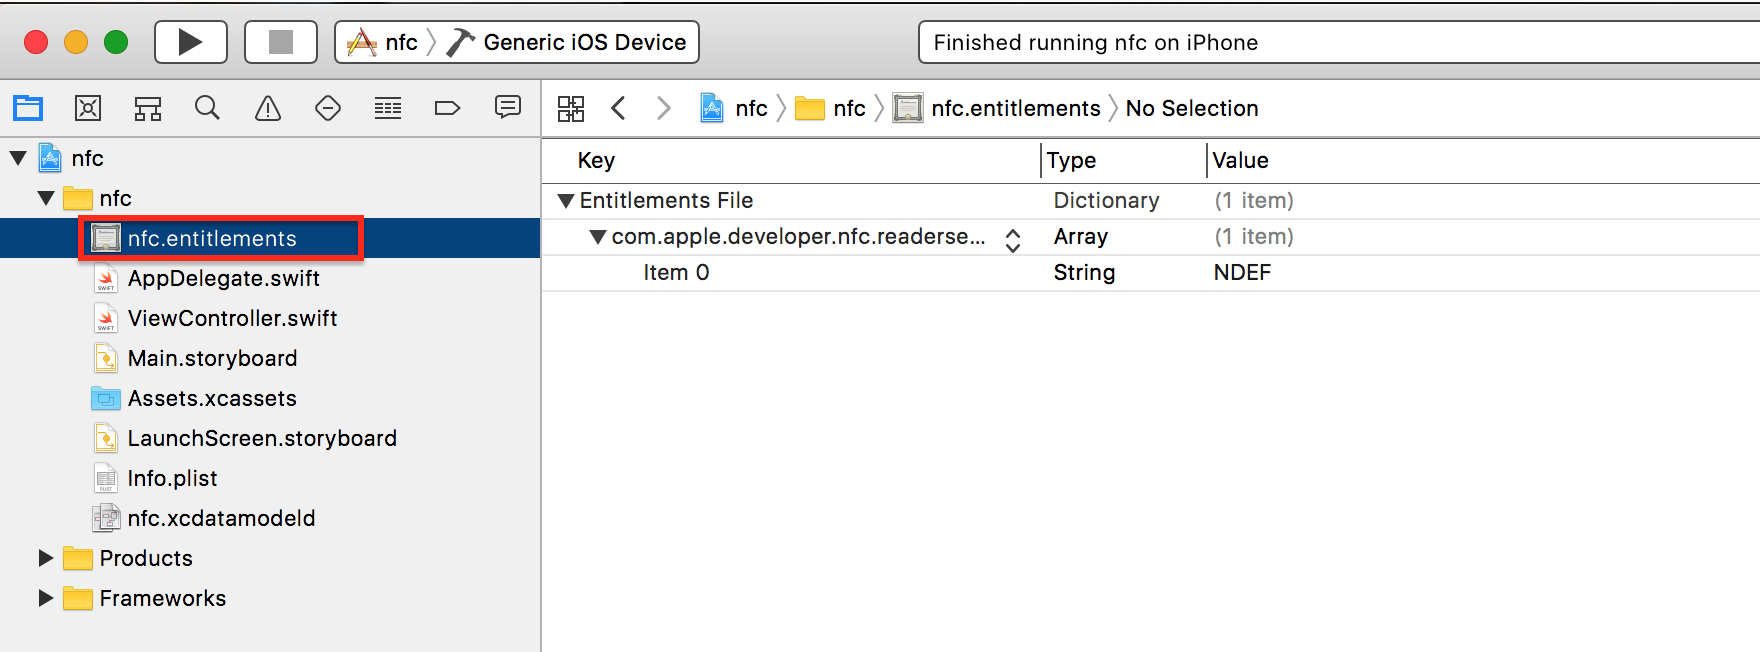
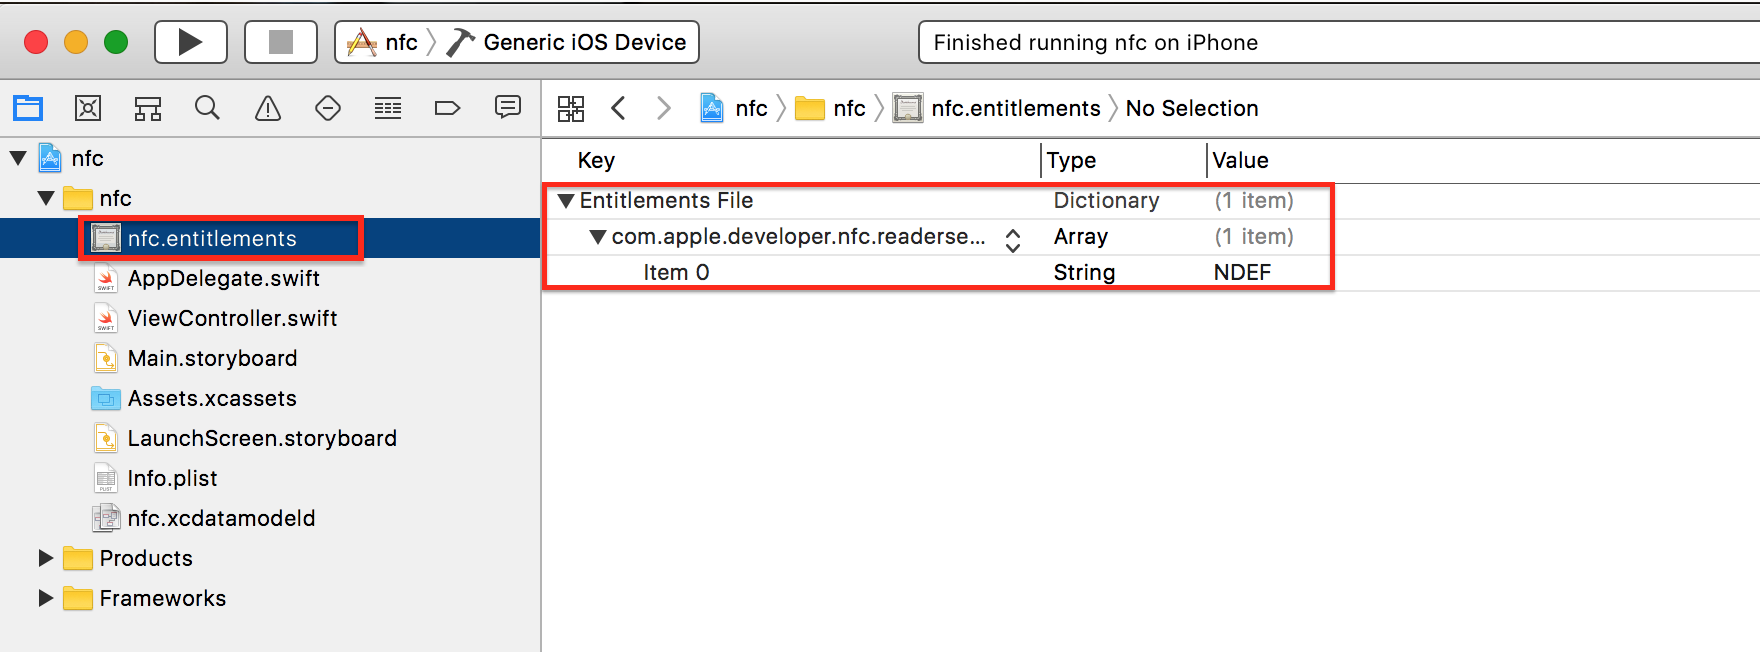
Update nfc.

Changed region(s): [[0.2812, 0.2761, 0.7812, 0.4601]]

diff --git a/nfc/001_nfc.md b/nfc/001_nfc.md
@@ -4,7 +4,11 @@
 
 ## 事前準備
 
+新規作成したアプリのBundleIDをメモ。
+
 ![nfc001_001](./img/nfc001_001.png)
+
+[iOS Dev Center](https://developer.apple.com/account/ios/certificate/)でアプリIDを新規に作成し、BundleIDを登録する。
 
 ![nfc001_002](./img/nfc001_002.png)
 
@@ -12,14 +16,31 @@
 
 ![nfc001_004](./img/nfc001_004.png)
 
+.entitielementファイルを作成するために、CapabilityのWalletをOnにし、ファイルが生成されたらOffにする。
+
 ![nfc001_005](./img/nfc001_005.png)
 
 ![nfc001_006](./img/nfc001_006.png)
 
 ![nfc001_007](./img/nfc001_007.png)
 
+```xml
+<?xml version="1.0" encoding="UTF-8"?>
+<!DOCTYPE plist PUBLIC "-//Apple//DTD PLIST 1.0//EN" "http://www.apple.com/DTDs/PropertyList-1.0.dtd">
+<plist version="1.0">
+    <dict>
+        <key>com.apple.developer.nfc.readersession.formats</key>
+        <array>
+            <string>NDEF</string>
+        </array>
+    </dict>
+</plist>
+```
+
 ![nfc001_008](./img/nfc001_008.png)
 
+* `Privacy – NFC Scan Usage Description`<br>
+* `NFCMyTag`<br>
 
 ## Swift 3.0
 
